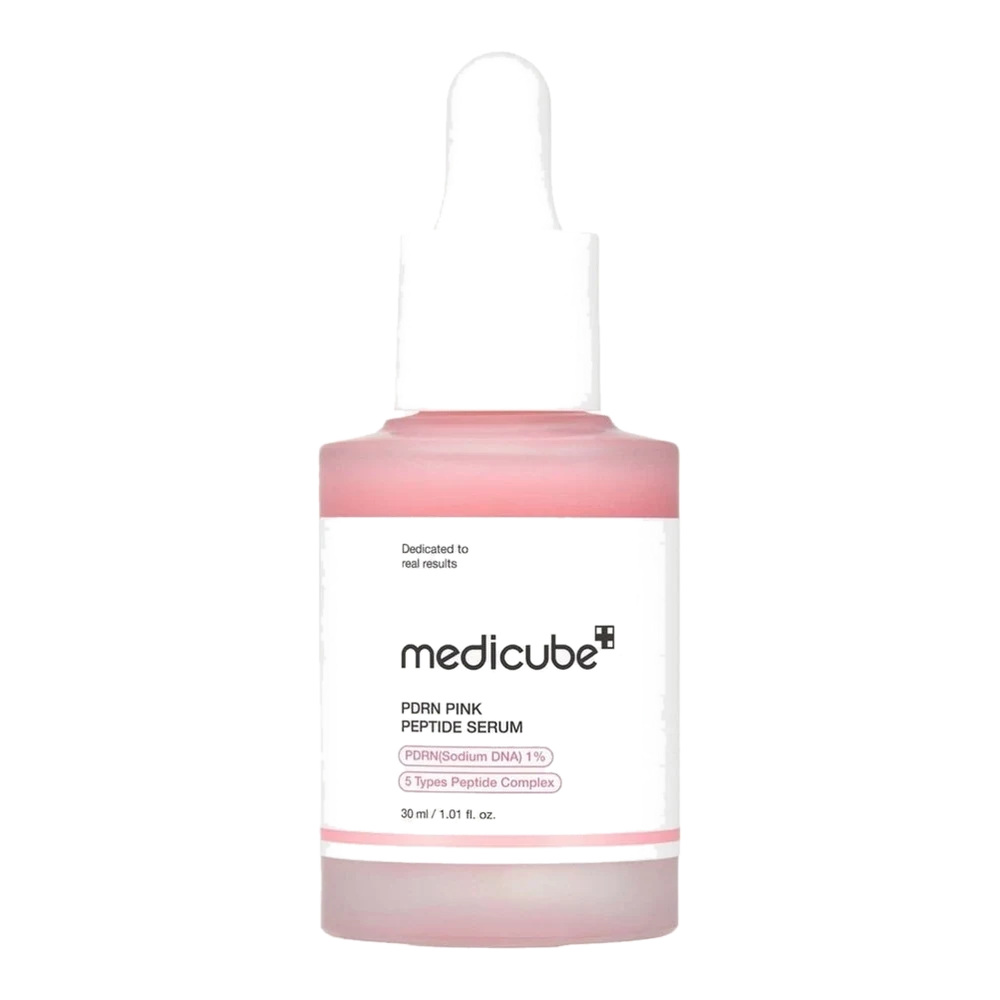
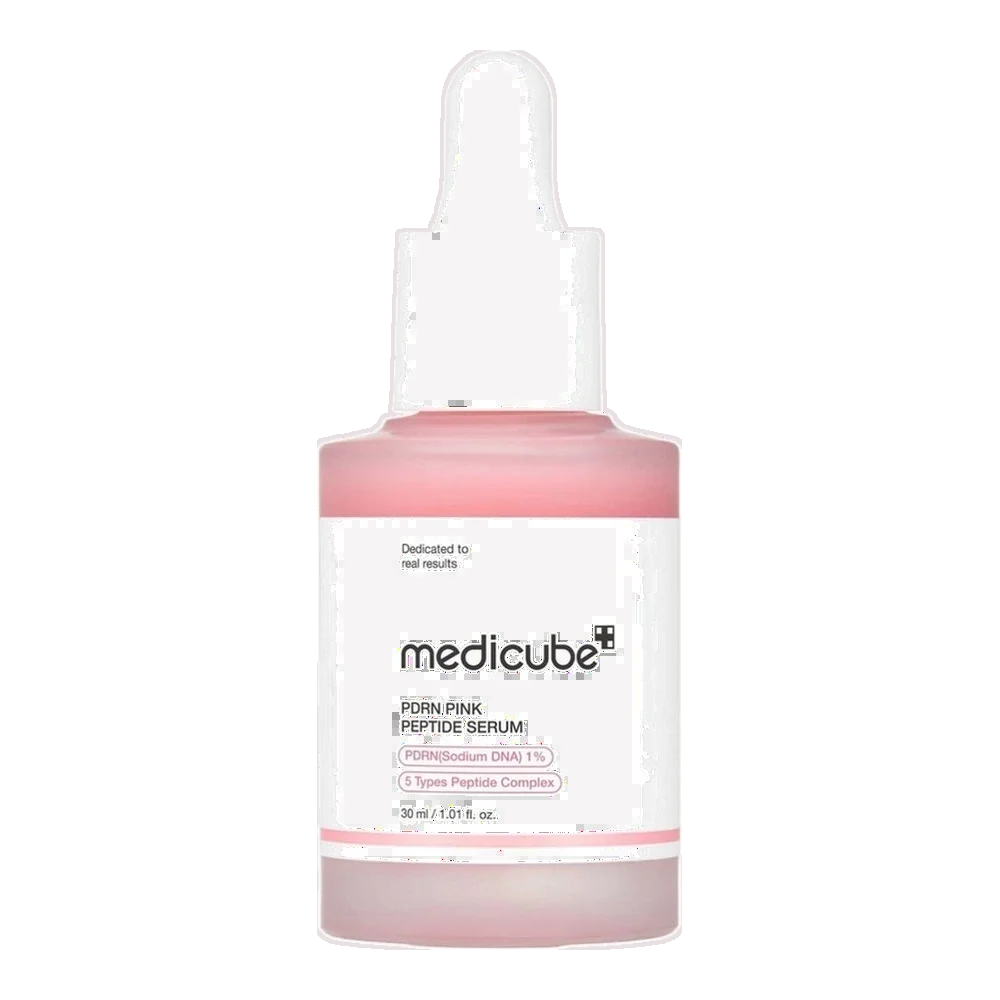
[data] Đổi tên 2 combo (QD-MKT-025), thưởng giữ hàng DC-02 từ 27/11, ảnh serum PDRN Pink bản DES (#73)
- deals.yaml: COMBO-VAMPIRE-GLOW → Combo Glow Vitamin C Medicube, COMBO-ZOMBIE → Combo Keo Ong Dưỡng Ẩm SKINFOOD (giữ id, sản phẩm, giá), cả tên gợi ý G-02/G-10/G-12; Supabase deal đã đồng bộ
- DC-02 thêm thuong_giu_hang {tu_ngay 2026-11-27} + schema, để trang giữ hàng đọc (job đội coder)
- public/trang-chu/medicube-pdrn-serum.webp: thay bằng bản DES/02 (ống nhỏ giọt, nhãn trắng không còn trong suốt), giữ khung 1000x1000 và vị trí cũ

Claude-Session: https://claude.ai/code/session_01SM32Gy7XZHf11jVL44stwA

diff --git a/lib/data/types.ts b/lib/data/types.ts
@@ -113,6 +113,8 @@ export const DealSchema = z.object({
   ten: z.string().min(1, "Thiếu tên deal"),
   loai: LoaiDealSchema,
   nhom_qua: z.enum(["hoa_don", "cong_them"]).optional(),
+  /** Thưởng thêm khi khách giữ hàng trên web rồi nhận tại booth, từ ngày tu_ngay (YYYY-MM-DD, giờ VN). */
+  thuong_giu_hang: z.object({ tu_ngay: z.string().regex(/^\d{4}-\d{2}-\d{2}$/), qua: z.string(), qua_en: z.string().optional() }).optional(),
   trang_thai: TrangThaiDealSchema,
   may_rui: z.boolean(),
   da_dang_ky: z.boolean().default(false),
